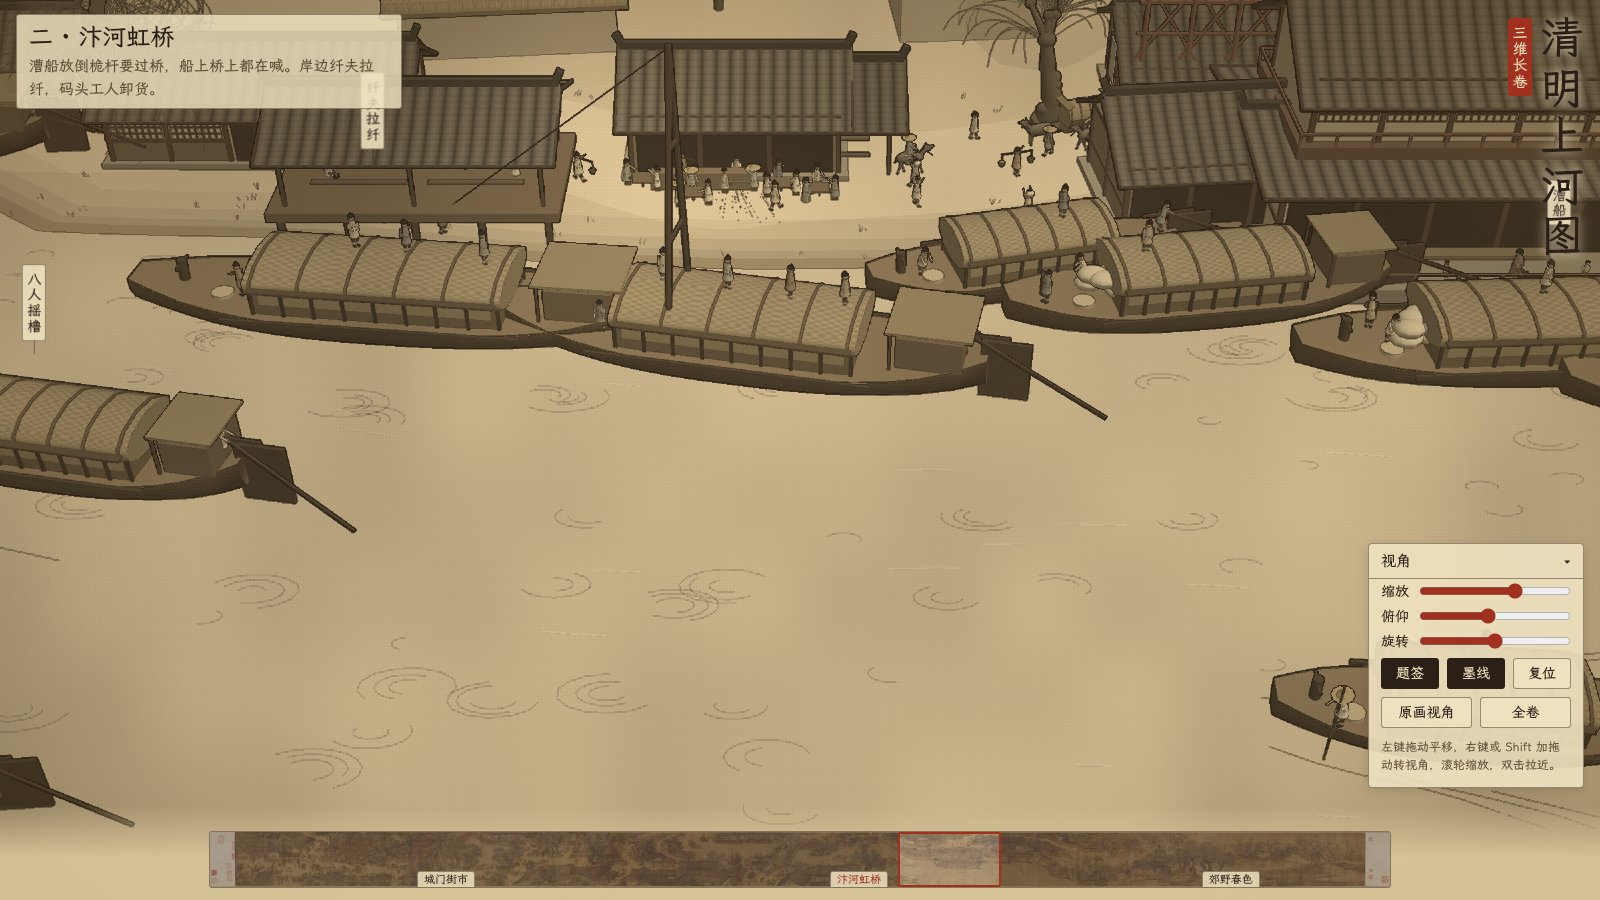
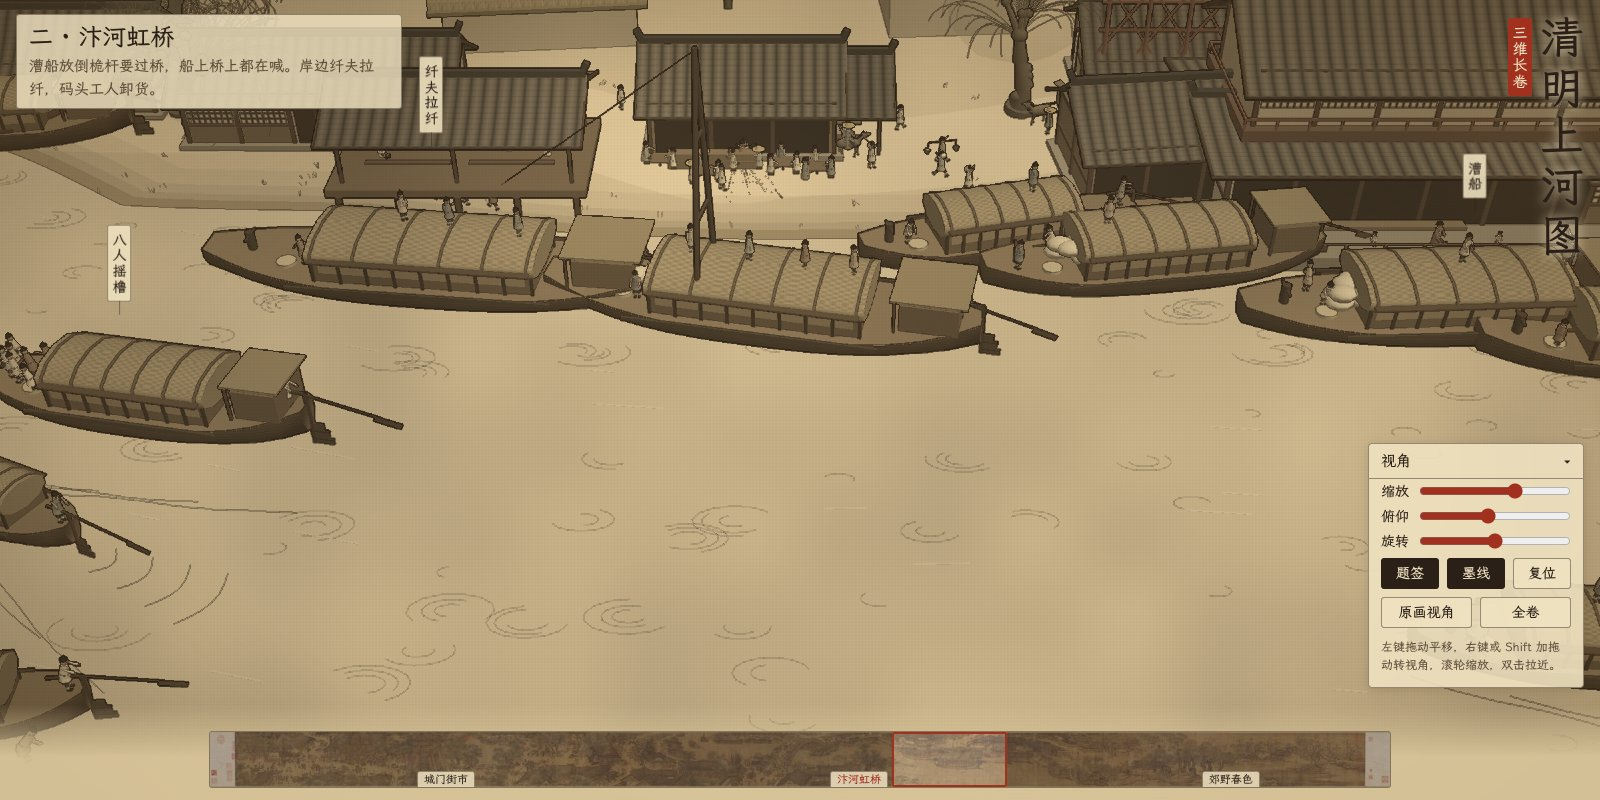
fable-5.2-ink: shrink rudders and stern sculls to match the painting
Claude-Session: https://claude.ai/code/session_01VCjf1kX5uaLQhULVUZR9nL

diff --git a/fable-5.2-ink/index.html b/fable-5.2-ink/index.html
@@ -417,14 +417,16 @@ function boat(o){var g=new T.Group(),st=new T.Group(),L=o.L||6,W=o.W||3.2,B={g:g
   var r=mk(GC,MT(0xb79c66,'mat'),st,W*.42,cl+.3,.55,0,2.0,cz);r.rotation.x=PI/2;for(i=0;i<6;i++){var rb=mk(GC,0x6a5238,st,W*.435,.08,.58,0,2.0,cz-cl/2+.1+i*(cl-.2)/5);rb.rotation.x=PI/2;rb.castShadow=false;}
   if(L>=5.5){var sy=deckY(-.78);box(st,0x7a5a3a,W*.56,1.0,L*.26,0,sy+.5,-L*.78);box(st,0x9a8250,W*.66,.08,L*.34,0,sy+1.25,-L*.78);[-1,1].forEach(function(s){box(st,0x5a4028,.08,1.3,.08,s*W*.3,sy+.62,-L*.63).castShadow=false;});}}
  var by=deckY(.8);cyl(st,0x4a3626,.16,.7,0,by+.3,L*.8);box(st,0x4a3626,.9,.08,.08,0,by+.5,L*.8).castShadow=false;mk(GC,0xc9b88a,st,.36,.12,.36,W*.16,deckY(.62)+.02,L*.62).castShadow=false;
- box(st,0x4a3626,.14,2.3,1.5,0,.75,-L-.5);box(st,0x4a3626,.1,.1,1.8,0,deckY(-1)+.5,-L+.3).castShadow=false;
+ var ry0=deckY(-1);box(st,0x4a3626,.09,ry0+.55,.12,0,(ry0+.55)/2-.2,-L-.02);
+ [0,1,2].forEach(function(k){box(st,0x5a4028,.07,.3,.62-k*.12,0,.02+k*.3,-L-.36+k*.06).castShadow=false;});box(st,0x3b2b1f,.1,.05,.66,0,.17,-L-.34).castShadow=false;box(st,0x3b2b1f,.1,.05,.54,0,.47,-L-.3).castShadow=false;
+ box(st,0x4a3626,.08,.08,1.1,0,ry0+.38,-L+.5).castShadow=false;
  if(o.cargo)for(var c=0;c<8;c++)sph(st,0xd9cfae,.42,.24,.5,rr(-.5,.5),deckY(.55)+.2+Math.floor(c/4)*.4,L*.5+(c%4)*.28-.5);
  if(o.mast){var m=pivot(g,0,2.2,L*.25);m.userData.dyn=true;if(o.mast==='down'){m.rotation.x=-1.3;}[-1,1].forEach(function(s){var lg=cyl(m,0x4a3626,.1,8.2,s*.55,4,0);lg.rotation.z=s*.135;});box(m,0x4a3626,1.3,.1,.1,0,2.2,0);box(m,0x4a3626,.8,.1,.1,0,5,0);if(o.sail)box(m,0xddd0aa,3.4,4.8,.08,0,4.6,.15);B.mast=m;}
- B.oar=pivot(g,0,deckY(-.9)+.6,-L*.9);B.oar.userData.dyn=true;box(B.oar,0x4a3626,.09,.09,5,0,-.5,-2.3).rotation.x=-.25;
+ B.oar=pivot(g,0,deckY(-.9)+.6,-L*.9);B.oar.userData.dyn=true;box(B.oar,0x4a3626,.06,.06,3,0,-.62,-1.3).rotation.x=-.42;box(B.oar,0x5a4028,.04,.2,.9,0,-1.42,-2.9).rotation.x=-.42;
  (o.crew||[]).forEach(function(c){var P=person(Object.assign({raw:1},c.o||{hat:'bun'}));P.g.userData.dyn=true;P.g.position.set(c.x,c.y!=null?c.y:deckY(c.z/L)-.03,c.z);P.g.rotation.y=c.ry||0;P.y0=P.g.position.y;P.g.scale.setScalar(1.3/(o.scale||1));g.add(P.g);B.crew.push({P:P,an:c.an});});
  bake(st);
  g.scale.setScalar(o.scale||1);scene.add(g);
- B.pose=function(t){g.rotation.z=sin(t*.9+L)*.025;B.oar.rotation.y=sin(t*1.7)*.4;for(var i=0;i<B.crew.length;i++)B.crew[i].an(B.crew[i].P,t);};
+ B.pose=function(t){g.rotation.z=sin(t*.9+L)*.025;B.oar.rotation.y=sin(t*1.7)*.32;for(var i=0;i<B.crew.length;i++)B.crew[i].an(B.crew[i].P,t);};
  boats.push(B);return B;}
 var ro={};
 

diff --git a/fable-5.2-ink/src/boat.js b/fable-5.2-ink/src/boat.js
@@ -15,14 +15,16 @@ function boat(o){var g=new T.Group(),st=new T.Group(),L=o.L||6,W=o.W||3.2,B={g:g
   var r=mk(GC,MT(0xb79c66,'mat'),st,W*.42,cl+.3,.55,0,2.0,cz);r.rotation.x=PI/2;for(i=0;i<6;i++){var rb=mk(GC,0x6a5238,st,W*.435,.08,.58,0,2.0,cz-cl/2+.1+i*(cl-.2)/5);rb.rotation.x=PI/2;rb.castShadow=false;}
   if(L>=5.5){var sy=deckY(-.78);box(st,0x7a5a3a,W*.56,1.0,L*.26,0,sy+.5,-L*.78);box(st,0x9a8250,W*.66,.08,L*.34,0,sy+1.25,-L*.78);[-1,1].forEach(function(s){box(st,0x5a4028,.08,1.3,.08,s*W*.3,sy+.62,-L*.63).castShadow=false;});}}
  var by=deckY(.8);cyl(st,0x4a3626,.16,.7,0,by+.3,L*.8);box(st,0x4a3626,.9,.08,.08,0,by+.5,L*.8).castShadow=false;mk(GC,0xc9b88a,st,.36,.12,.36,W*.16,deckY(.62)+.02,L*.62).castShadow=false;
- box(st,0x4a3626,.14,2.3,1.5,0,.75,-L-.5);box(st,0x4a3626,.1,.1,1.8,0,deckY(-1)+.5,-L+.3).castShadow=false;
+ var ry0=deckY(-1);box(st,0x4a3626,.09,ry0+.55,.12,0,(ry0+.55)/2-.2,-L-.02);
+ [0,1,2].forEach(function(k){box(st,0x5a4028,.07,.3,.62-k*.12,0,.02+k*.3,-L-.36+k*.06).castShadow=false;});box(st,0x3b2b1f,.1,.05,.66,0,.17,-L-.34).castShadow=false;box(st,0x3b2b1f,.1,.05,.54,0,.47,-L-.3).castShadow=false;
+ box(st,0x4a3626,.08,.08,1.1,0,ry0+.38,-L+.5).castShadow=false;
  if(o.cargo)for(var c=0;c<8;c++)sph(st,0xd9cfae,.42,.24,.5,rr(-.5,.5),deckY(.55)+.2+Math.floor(c/4)*.4,L*.5+(c%4)*.28-.5);
  if(o.mast){var m=pivot(g,0,2.2,L*.25);m.userData.dyn=true;if(o.mast==='down'){m.rotation.x=-1.3;}[-1,1].forEach(function(s){var lg=cyl(m,0x4a3626,.1,8.2,s*.55,4,0);lg.rotation.z=s*.135;});box(m,0x4a3626,1.3,.1,.1,0,2.2,0);box(m,0x4a3626,.8,.1,.1,0,5,0);if(o.sail)box(m,0xddd0aa,3.4,4.8,.08,0,4.6,.15);B.mast=m;}
- B.oar=pivot(g,0,deckY(-.9)+.6,-L*.9);B.oar.userData.dyn=true;box(B.oar,0x4a3626,.09,.09,5,0,-.5,-2.3).rotation.x=-.25;
+ B.oar=pivot(g,0,deckY(-.9)+.6,-L*.9);B.oar.userData.dyn=true;box(B.oar,0x4a3626,.06,.06,3,0,-.62,-1.3).rotation.x=-.42;box(B.oar,0x5a4028,.04,.2,.9,0,-1.42,-2.9).rotation.x=-.42;
  (o.crew||[]).forEach(function(c){var P=person(Object.assign({raw:1},c.o||{hat:'bun'}));P.g.userData.dyn=true;P.g.position.set(c.x,c.y!=null?c.y:deckY(c.z/L)-.03,c.z);P.g.rotation.y=c.ry||0;P.y0=P.g.position.y;P.g.scale.setScalar(1.3/(o.scale||1));g.add(P.g);B.crew.push({P:P,an:c.an});});
  bake(st);
  g.scale.setScalar(o.scale||1);scene.add(g);
- B.pose=function(t){g.rotation.z=sin(t*.9+L)*.025;B.oar.rotation.y=sin(t*1.7)*.4;for(var i=0;i<B.crew.length;i++)B.crew[i].an(B.crew[i].P,t);};
+ B.pose=function(t){g.rotation.z=sin(t*.9+L)*.025;B.oar.rotation.y=sin(t*1.7)*.32;for(var i=0;i<B.crew.length;i++)B.crew[i].an(B.crew[i].P,t);};
  boats.push(B);return B;}
 var ro={};
 
